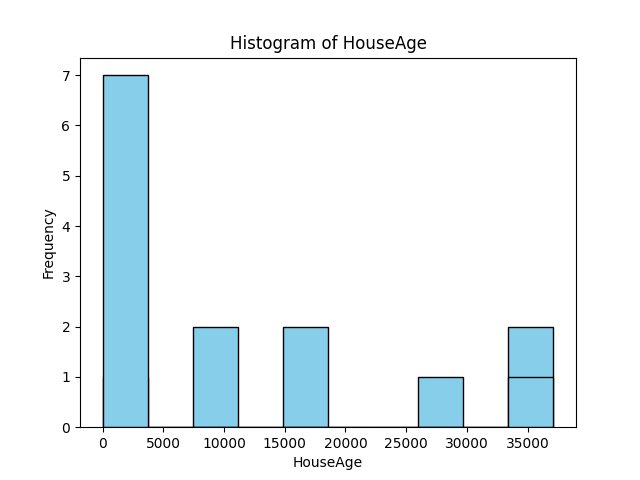
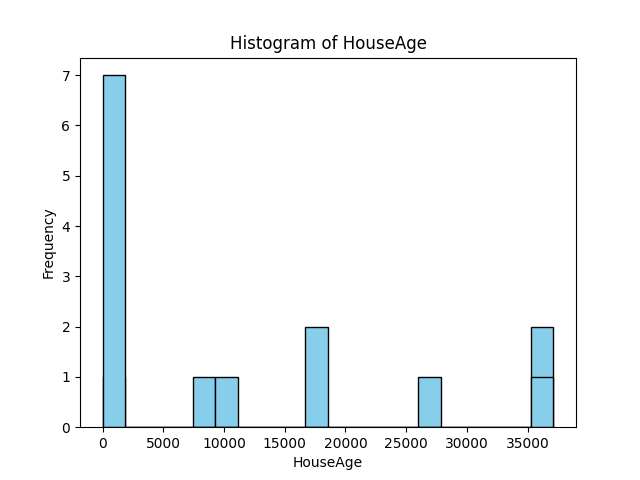
Updates

diff --git a/mylib/calculator.py b/mylib/calculator.py
@@ -19,7 +19,7 @@ def grab_mean(df, col):
 def create_histogram(df, col):
     
     # Plotting a basic histogram
-    plt.hist(df[col],  color='skyblue', edgecolor='black')
+    plt.hist(df[col], bins=20,  color='skyblue', edgecolor='black')
     
     # Adding labels and title
     plt.xlabel(col)

diff --git a/README.md b/README.md
@@ -27,6 +27,13 @@ Demo Video is here:
 - .devcontainer contains the Dockerfile and the devcontainer.json file for container environment
 
 ## Analysis
+
+We can see the distribution of id's in the housing data
  ![Figure](hist.png)
+
+There's also a histogram of the age of the houses.
+
+![Age Histogram](hist_HouseAge.png)
+
 
 
